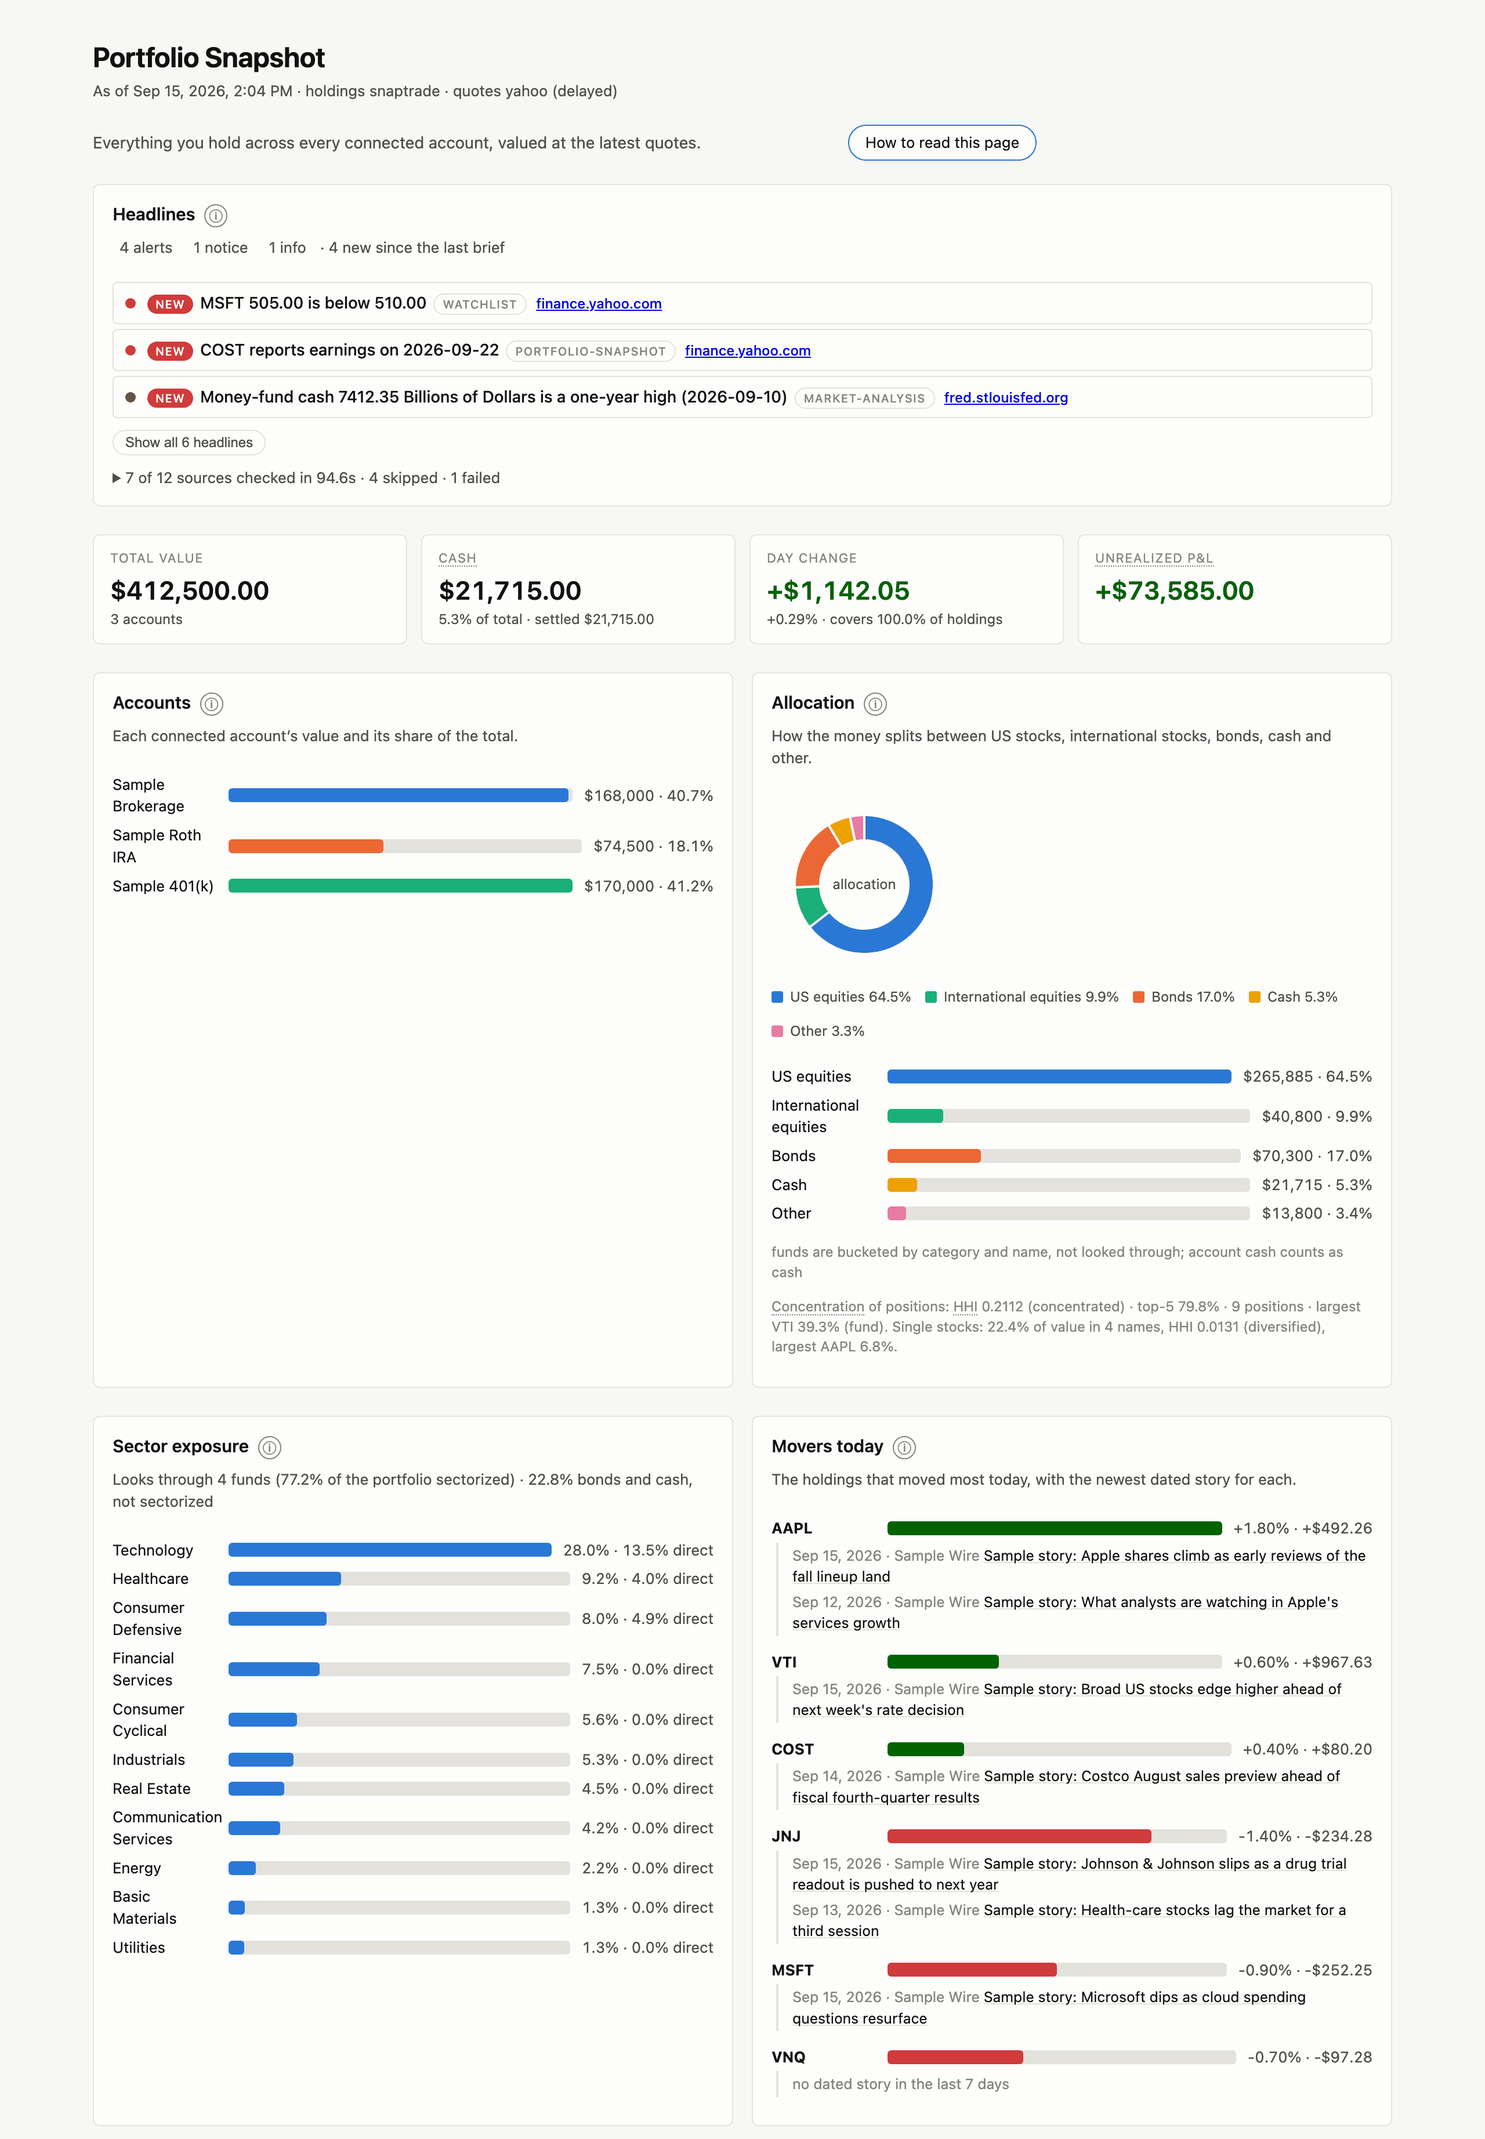
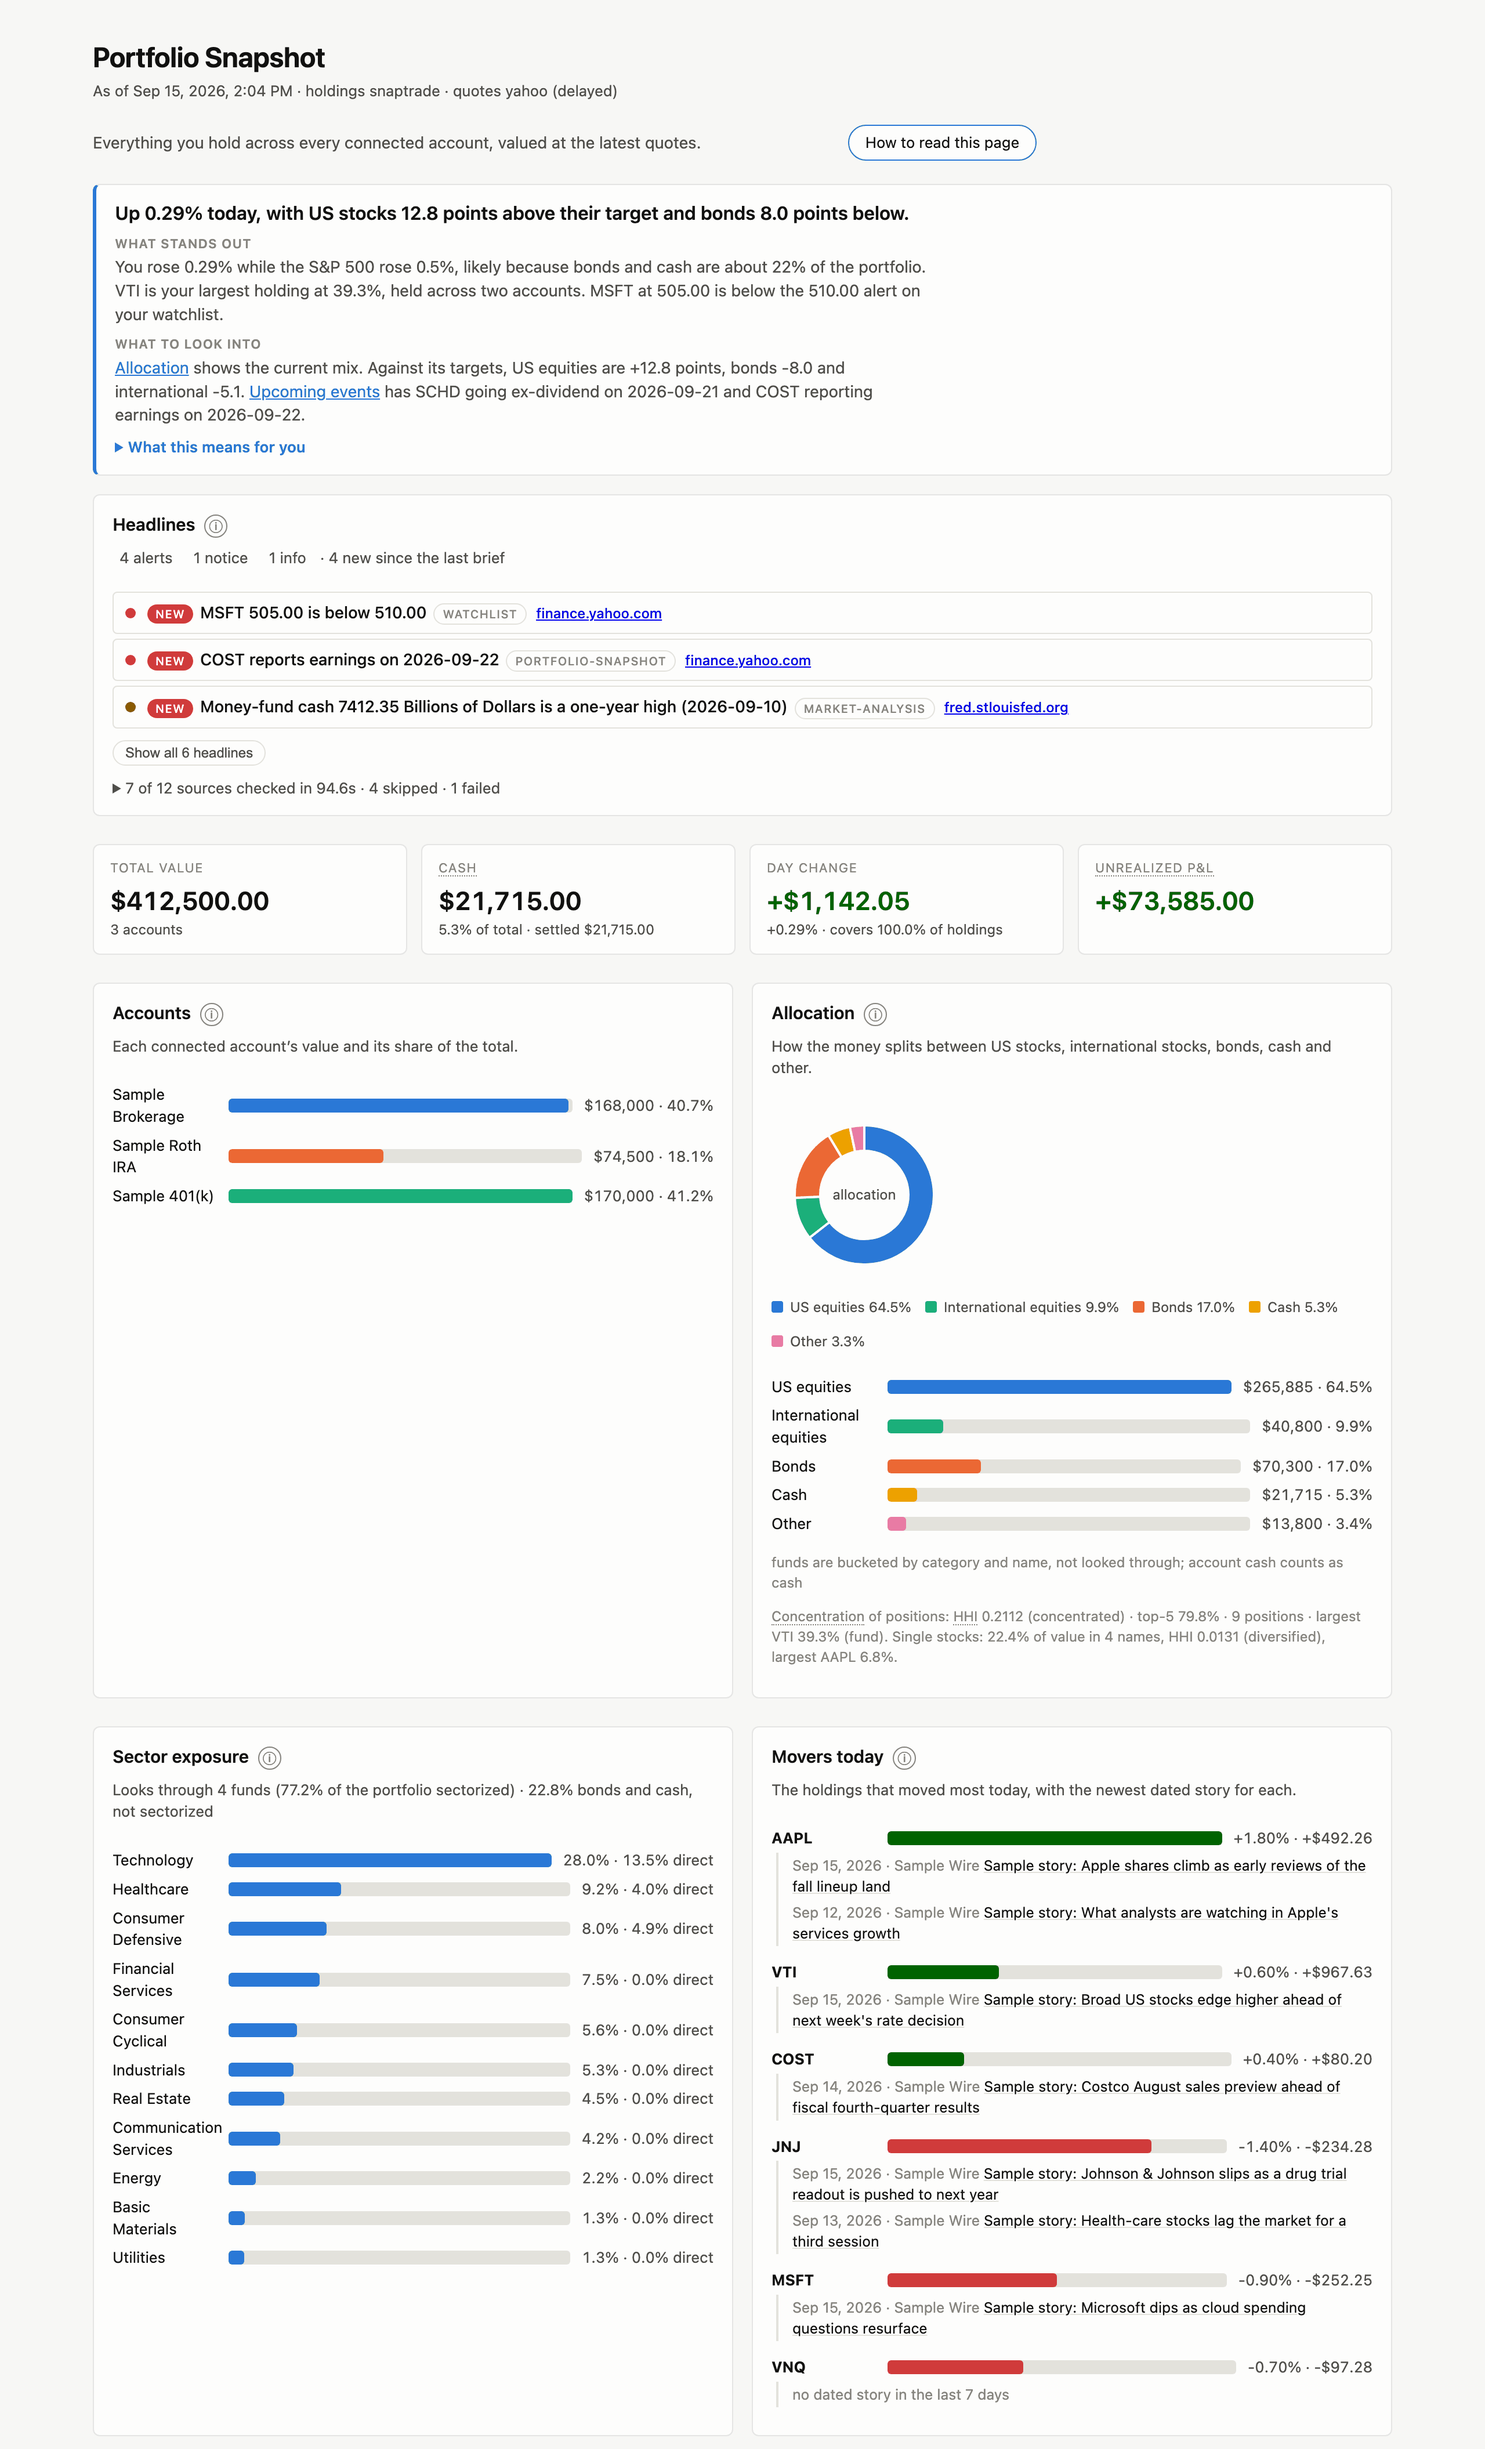
docs(readme): show the headline analysis card in the portfolio screenshot
The sample brief now renders with a fictional headline card, kept in
docs/samples/portfolio-brief-summary.json, and the screenshot build and
README sample test pass it to render.py so rebuilds keep the card.

diff --git a/docs/samples/build_screenshots.py b/docs/samples/build_screenshots.py
@@ -34,7 +34,7 @@ PAGE_BG = (0xF7, 0xF7, 0xF5)  # --page in the light theme (lib/second_opinion/pa
 
 # name -> (skill, render.py arguments relative to this directory, crop height in CSS px or None)
 PAGES: dict[str, tuple[str, list[str], int | None]] = {
-    "portfolio-brief": ("portfolio-snapshot", ["--in", "portfolio-brief.json"], 2290),
+    "portfolio-brief": ("portfolio-snapshot", ["--in", "portfolio-brief.json", "--summary", "portfolio-brief-summary.json"], 2290),
     "risk-analysis": ("risk-analysis", ["--in", "risk-analysis.json"], 2260),
     "valuation": ("valuation", ["--in", "valuation.json"], 1380),
     "retirement": ("retirement", ["--in", "retirement.json"], 1780),

diff --git a/tests/test_readme_samples.py b/tests/test_readme_samples.py
@@ -13,7 +13,7 @@ README = PLUGIN_ROOT / "README.md"
 
 # image name -> (renderer, render.py arguments naming fixtures in docs/samples)
 PAGES = {
-    "portfolio-brief": ("portfolio-snapshot/scripts/render.py", ["--in", "portfolio-brief.json"]),
+    "portfolio-brief": ("portfolio-snapshot/scripts/render.py", ["--in", "portfolio-brief.json", "--summary", "portfolio-brief-summary.json"]),
     "risk-analysis": ("risk-analysis/scripts/render.py", ["--in", "risk-analysis.json"]),
     "valuation": ("valuation/scripts/render.py", ["--in", "valuation.json"]),
     "retirement": ("retirement/scripts/render.py", ["--in", "retirement.json"]),
